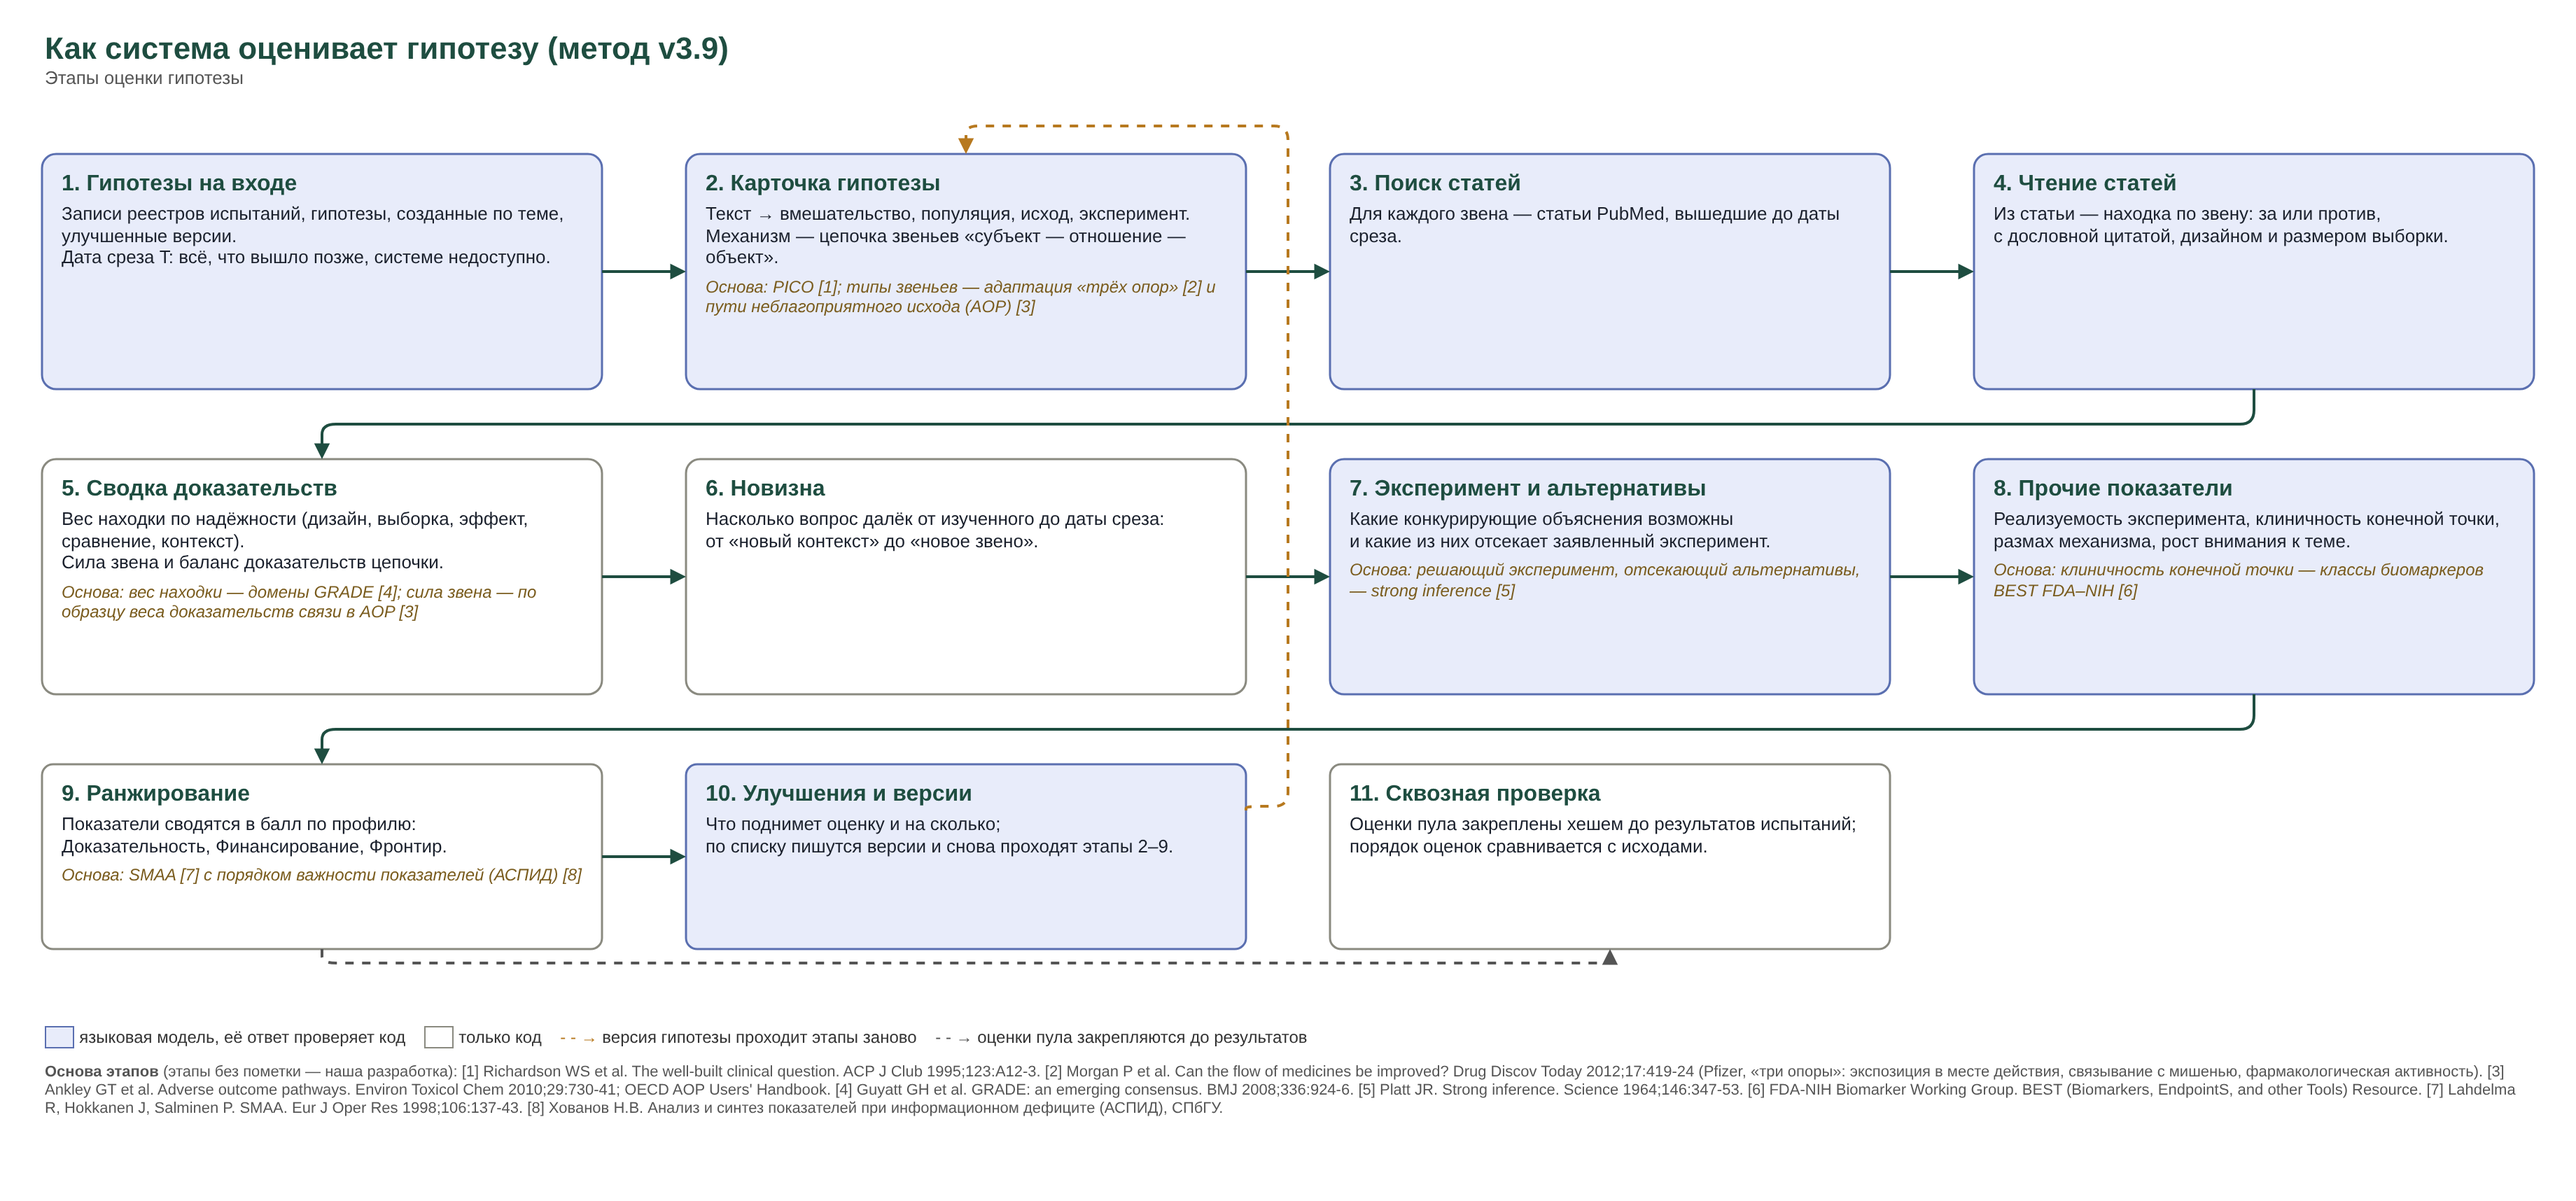
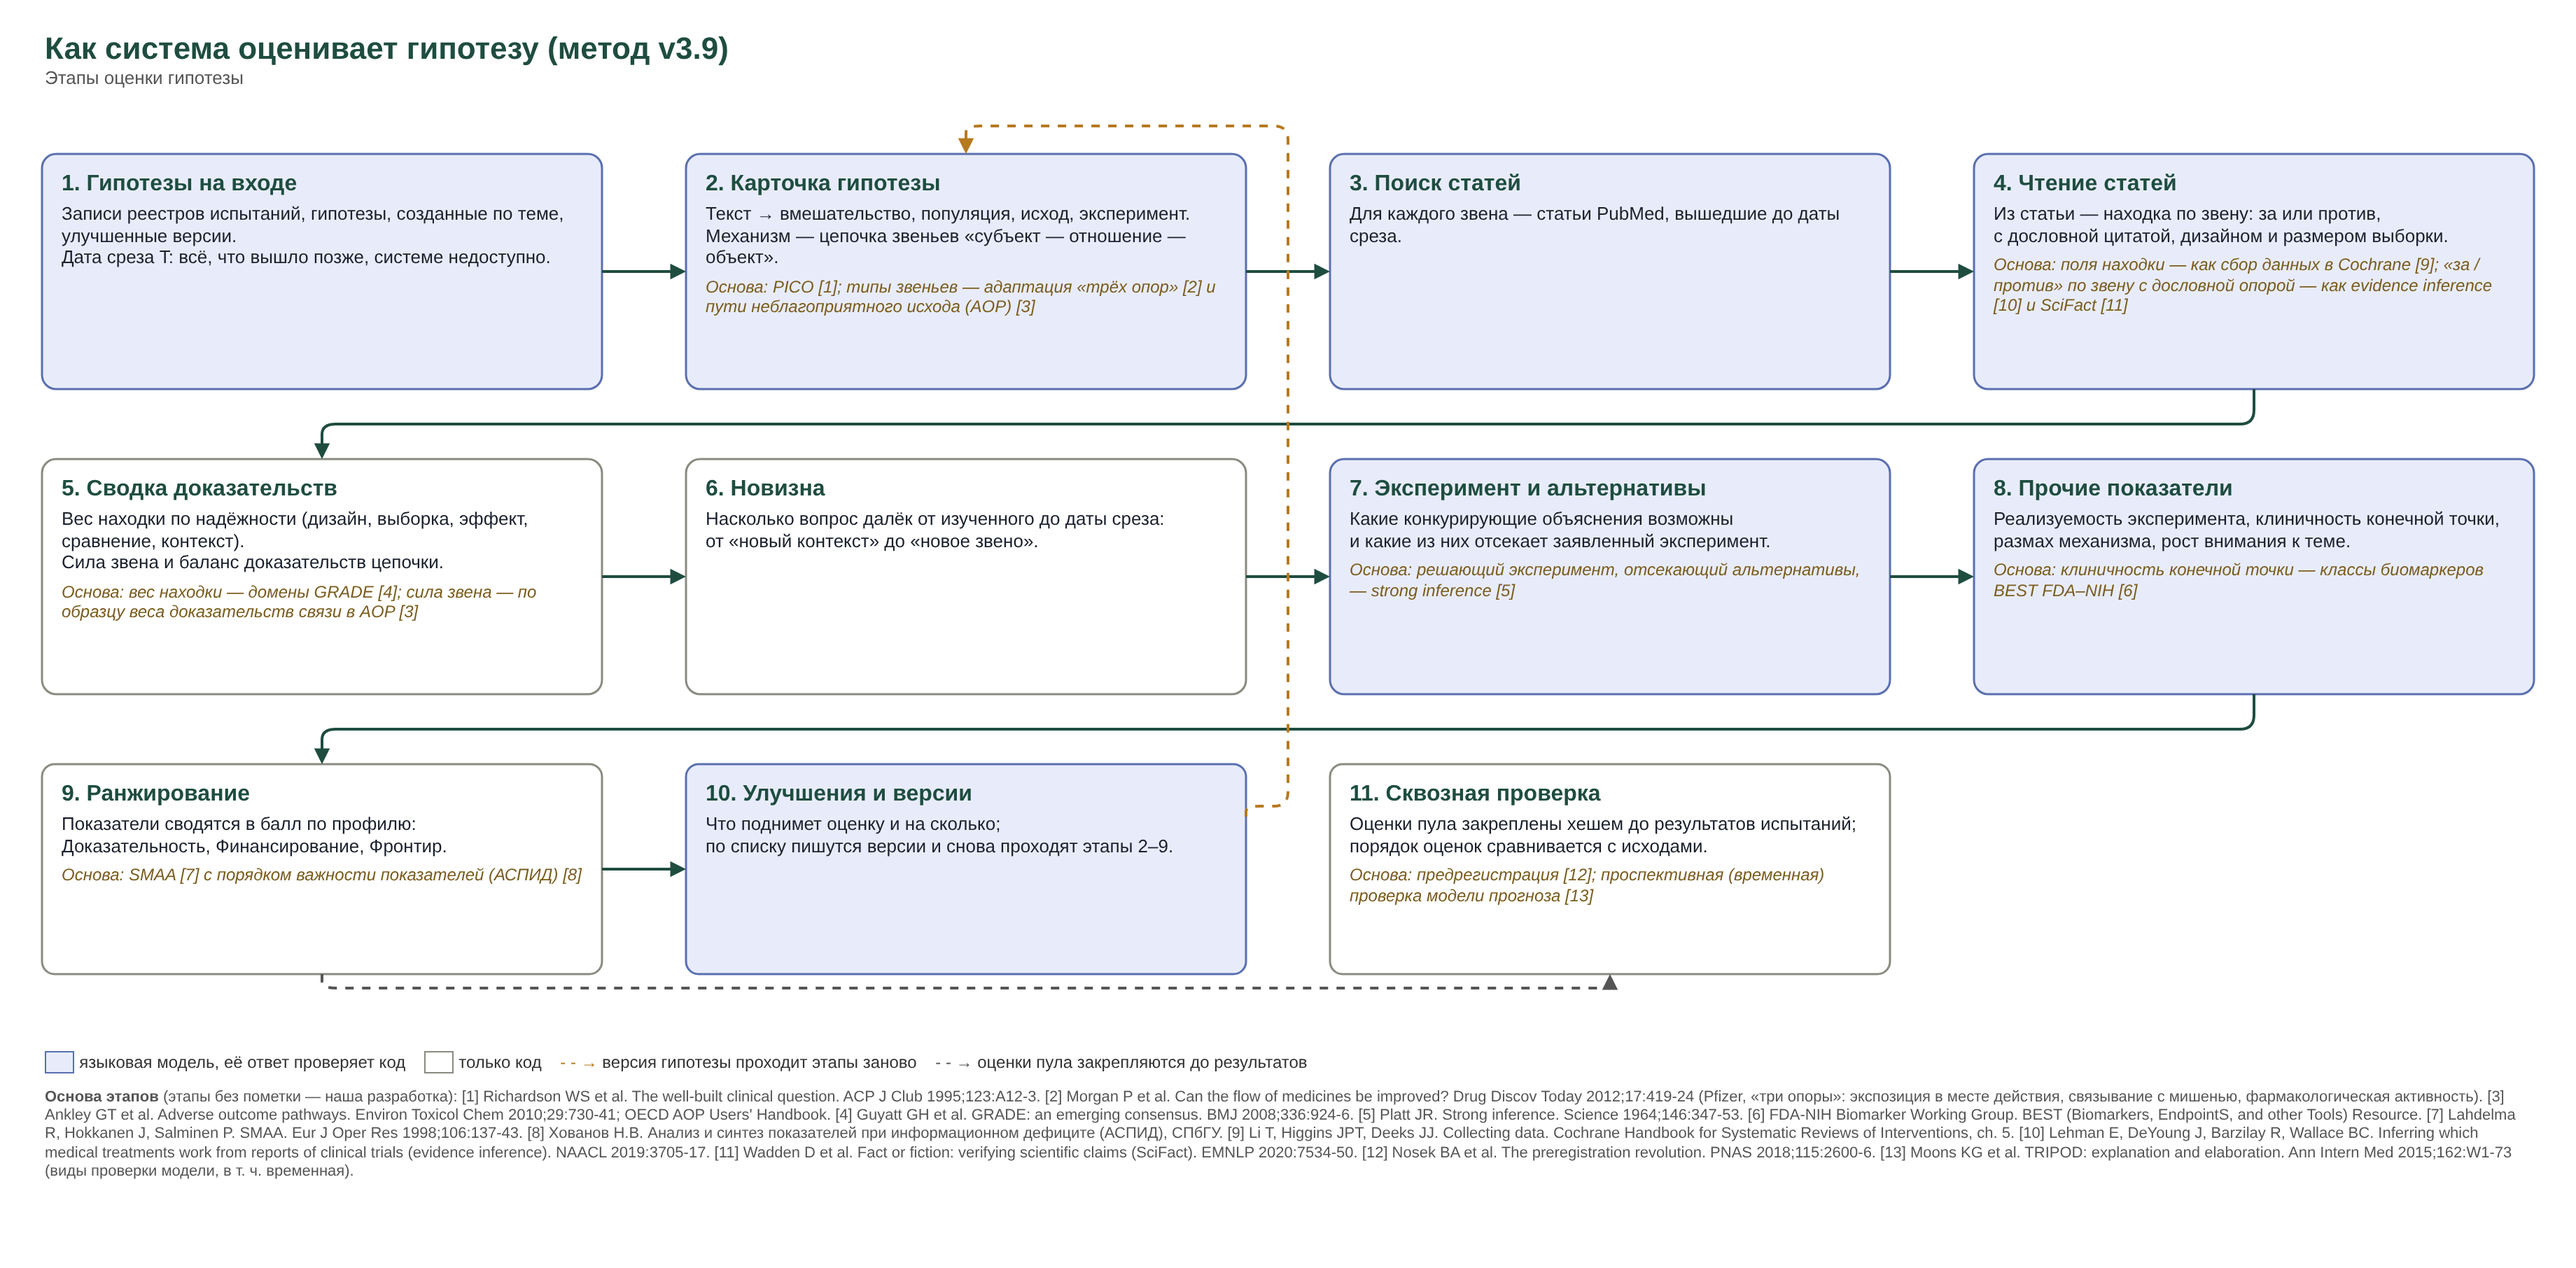
Flow scheme: basis for reading (Cochrane data collection, evidence inference, SciFact) and the end-to-end check (preregistration, temporal validation per TRIPOD), references checked
Claude-Session: https://claude.ai/code/session_015QaY8wcM8f6FoFe6WxnTtU

diff --git a/docs/system/build_flow.py b/docs/system/build_flow.py
@@ -38,7 +38,7 @@ STAGES = [
          own=["Доля эталонных статей среди найденных."],
          base_llm=["Ссылки, которые LLM даёт без поиска: существуют ли, до T ли."],
          why=["Запросы модели находят эталонные статьи втрое чаще ключевых слов."]),
-    dict(name="4. Чтение статей", kind="llm",
+    dict(name="4. Чтение статей", basis="поля находки — как сбор данных в Cochrane [9]; «за / против» по звену с дословной опорой — как evidence inference [10] и SciFact [11]", kind="llm",
          base=["Из статьи — находка по звену: за или против,",
                "с дословной цитатой, дизайном и размером выборки."],
          llm=["Решает, сообщает ли статья свой результат по звену, и выписывает его."],
@@ -91,7 +91,7 @@ STAGES = [
          own=["Ожидаемый прирост против полученного; внешний читатель по парам."],
          base_llm=["«LLM, улучши гипотезу» без правил; судьи по парам."],
          why=["Без правил прирост получается подгонкой к найденным статьям."]),
-    dict(name="11. Сквозная проверка", kind="code",
+    dict(name="11. Сквозная проверка", basis="предрегистрация [12]; проспективная (временная) проверка модели прогноза [13]", kind="code",
          base=["Оценки пула закреплены хешем до результатов испытаний;",
                "порядок оценок сравнивается с исходами."],
          code=["Хеш файла оценок; исходы собираются из реестров."],
@@ -110,6 +110,11 @@ REFS = [
     "FDA-NIH Biomarker Working Group. BEST (Biomarkers, EndpointS, and other Tools) Resource.",
     "Lahdelma R, Hokkanen J, Salminen P. SMAA. Eur J Oper Res 1998;106:137-43.",
     "Хованов Н.В. Анализ и синтез показателей при информационном дефиците (АСПИД), СПбГУ.",
+    "Li T, Higgins JPT, Deeks JJ. Collecting data. Cochrane Handbook for Systematic Reviews of Interventions, ch. 5.",
+    "Lehman E, DeYoung J, Barzilay R, Wallace BC. Inferring which medical treatments work from reports of clinical trials (evidence inference). NAACL 2019:3705-17.",
+    "Wadden D et al. Fact or fiction: verifying scientific claims (SciFact). EMNLP 2020:7534-50.",
+    "Nosek BA et al. The preregistration revolution. PNAS 2018;115:2600-6.",
+    "Moons KG et al. TRIPOD: explanation and elaboration. Ann Intern Med 2015;162:W1-73 (виды проверки модели, в т. ч. временная).",
 ]
 
 VARIANTS = {"base": [], "impl": ["impl"], "check": ["check"], "full": ["impl", "check", "why"]}

diff --git a/docs/walkthrough/H49.md b/docs/walkthrough/H49.md
@@ -95,3 +95,9 @@
 исход, вес доказательств на каждую связь). Это наша адаптация, не стандартная онтология; записано в разделе 3 мануала.
 На схеме у этапов теперь строка «Основа» со ссылками (PICO, «три опоры», AOP, GRADE, strong inference, BEST, SMAA, АСПИД);
 этапы без неё — наша разработка (поиск, чтение, новизна, улучшения, сквозная проверка).
+
+**Основа ещё двух этапов** (решение 2026-11-11): чтение — сбор данных Cochrane (Handbook, гл. 5), evidence inference
+(Lehman et al., NAACL 2019: по вмешательству, контролю и исходу решить, есть ли значимое различие, и указать опору в тексте)
+и SciFact (Wadden et al., EMNLP 2020: «поддерживает / опровергает» с предложениями-обоснованиями); сквозная проверка —
+предрегистрация (Nosek et al., PNAS 2018) и временная проверка модели прогноза (TRIPOD, Moons et al., Ann Intern Med 2015).
+Своими остаются поиск, новизна и улучшения.
